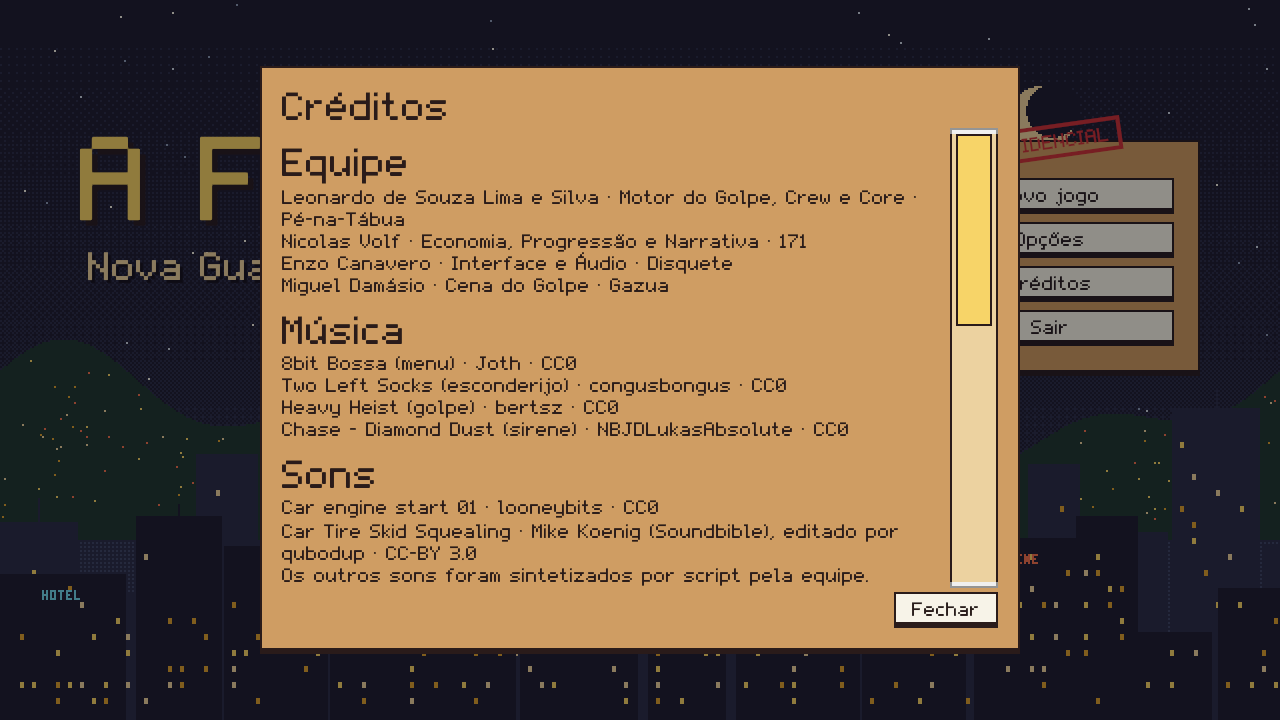
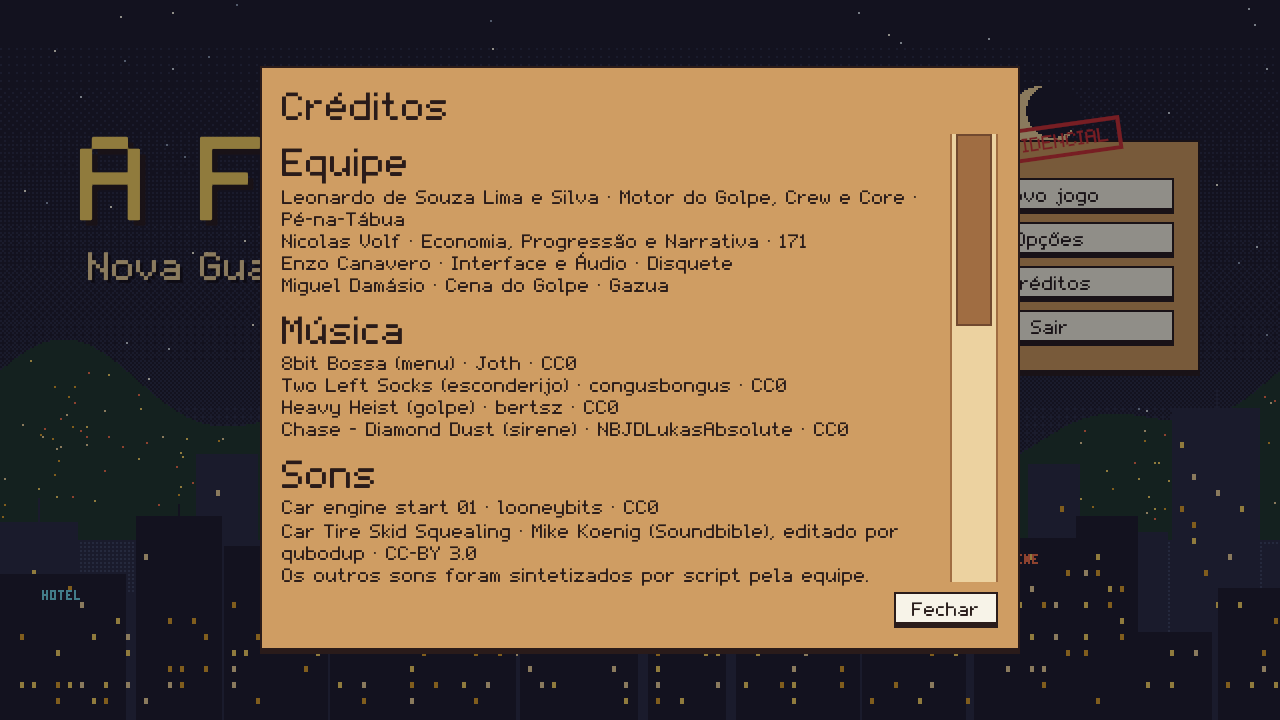
Adiciona fade de entrada nas telas e janelas e a barra de rolagem na paleta (#110)

Changed region(s): [[0.7188, 0.1528, 0.7812, 0.4583], [0.75, 0.7944, 0.7812, 0.825]]

diff --git a/Assets/_Project/UI/Runtime/Ui.cs b/Assets/_Project/UI/Runtime/Ui.cs
@@ -90,7 +90,15 @@ namespace AFirma.UI
                             if (twice) Confirm(screen, "Certeza mesmo?", "Não tem volta.", yes, onYes);
                             else { UiSounds.Stamp(); onYes(); }
                         }, "btn--red"))));
-            screen.Add(scrim);
+            screen.Add(scrim.FadeIn());
+        }
+
+        /// <summary>Entra com fade (tela nova, aba, janela): nasce transparente e a transição do USS faz o resto.</summary>
+        public static T FadeIn<T>(this T element) where T : VisualElement
+        {
+            element.AddToClassList("fade");
+            element.schedule.Execute(() => element.RemoveFromClassList("fade")).StartingIn(20);
+            return element;
         }
 
         /// <summary>Janela por cima da tela de anyElement com título, conteúdo e Fechar (opções, créditos, menu).</summary>
@@ -102,7 +110,7 @@ namespace AFirma.UI
             scrim = El("scrim", El("panel dialog dialog--wide", Text(title, "h2"), body,
                 El("row dialog__buttons", Btn("Fechar", () => scrim.RemoveFromHierarchy()))));
             build(body);
-            screen.Add(scrim);
+            screen.Add(scrim.FadeIn());
             UiSounds.Paper();
             return scrim;
         }

diff --git a/Assets/_Project/UI/Runtime/HideoutScreen.cs b/Assets/_Project/UI/Runtime/HideoutScreen.cs
@@ -20,6 +20,7 @@ namespace AFirma.UI
         void OnEnable()
         {
             root = GetComponent<UIDocument>().rootVisualElement;
+            root.Q(className: "screen").FadeIn();
             content = root.Q("content");
             money = root.Q<Label>("money");
             income = root.Q<Label>("income");
@@ -62,7 +63,7 @@ namespace AFirma.UI
             content.SetShown(open != null);
             if (open == null) return;
             root.Q<Button>(name).AddToClassList("tab--open");
-            build(content);
+            build(content.FadeIn());
             UiSounds.Paper();
         }
 

diff --git a/Assets/_Project/UI/Runtime/Notices.cs b/Assets/_Project/UI/Runtime/Notices.cs
@@ -56,7 +56,7 @@ namespace AFirma.UI
                 pager = null;
                 if (bips.Count == 0) return;
                 var (sender, message) = bips.Dequeue();
-                pager = new Button(() => until = 0f) { name = "pager" };
+                pager = new Button { name = "pager" }.OnClick(() => until = 0f);
                 pager.AddToClassList("pager");
                 pager.Add(Ui.Text("BIP · " + sender, "pager__from"));
                 pager.Add(Ui.Text(message, "pager__text"));

diff --git a/Assets/_Project/UI/Tests/PlayMode/UiTestSupport.cs b/Assets/_Project/UI/Tests/PlayMode/UiTestSupport.cs
@@ -82,6 +82,7 @@ namespace AFirma.Tests
         {
             var dir = Environment.GetEnvironmentVariable("AFIRMA_PRINTS");
             if (string.IsNullOrEmpty(dir)) yield break;
+            yield return new WaitForSecondsRealtime(0.3f); // deixa terminar o fade de entrada (Ui.FadeIn)
 
             const int w = 1280, h = 720;
             var documents = UnityEngine.Object.FindObjectsByType<UIDocument>();

diff --git a/Assets/_Project/UI/Runtime/MainMenuScreen.cs b/Assets/_Project/UI/Runtime/MainMenuScreen.cs
@@ -11,6 +11,7 @@ namespace AFirma.UI
         void OnEnable()
         {
             var root = GetComponent<UIDocument>().rootVisualElement;
+            root.Q(className: "screen").FadeIn();
             var continueButton = root.OnClick("continue", SceneFlow.GoToHideout);
             continueButton.SetShown(Services.Save.HasSave);
             root.OnClick("new-game", () =>

diff --git a/Assets/_Project/UI/Runtime/HeistHud.cs b/Assets/_Project/UI/Runtime/HeistHud.cs
@@ -28,6 +28,7 @@ namespace AFirma.UI
         void OnEnable()
         {
             root = GetComponent<UIDocument>().rootVisualElement;
+            root.Q(className: "screen").FadeIn();
             popup = root.Q("popup");
             paused = root.Q("paused");
             crewBar = root.Q("crew");
